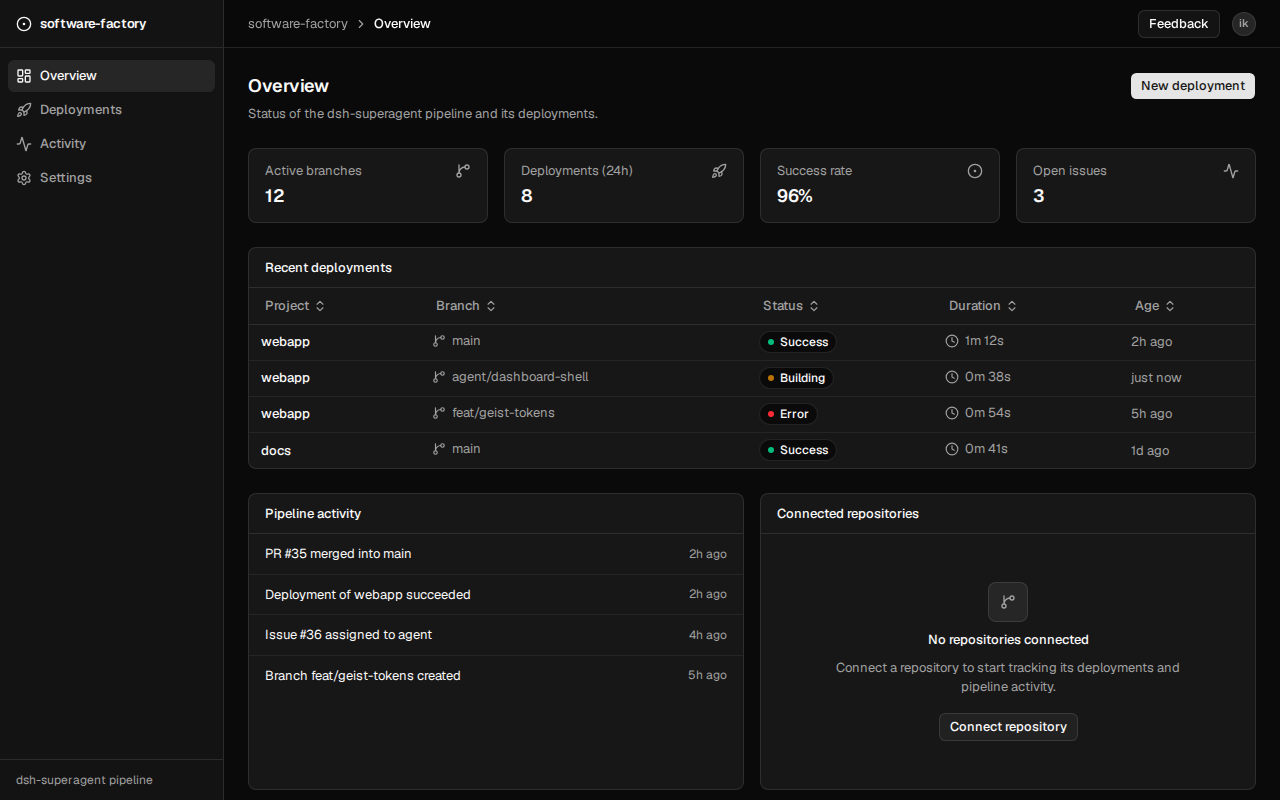
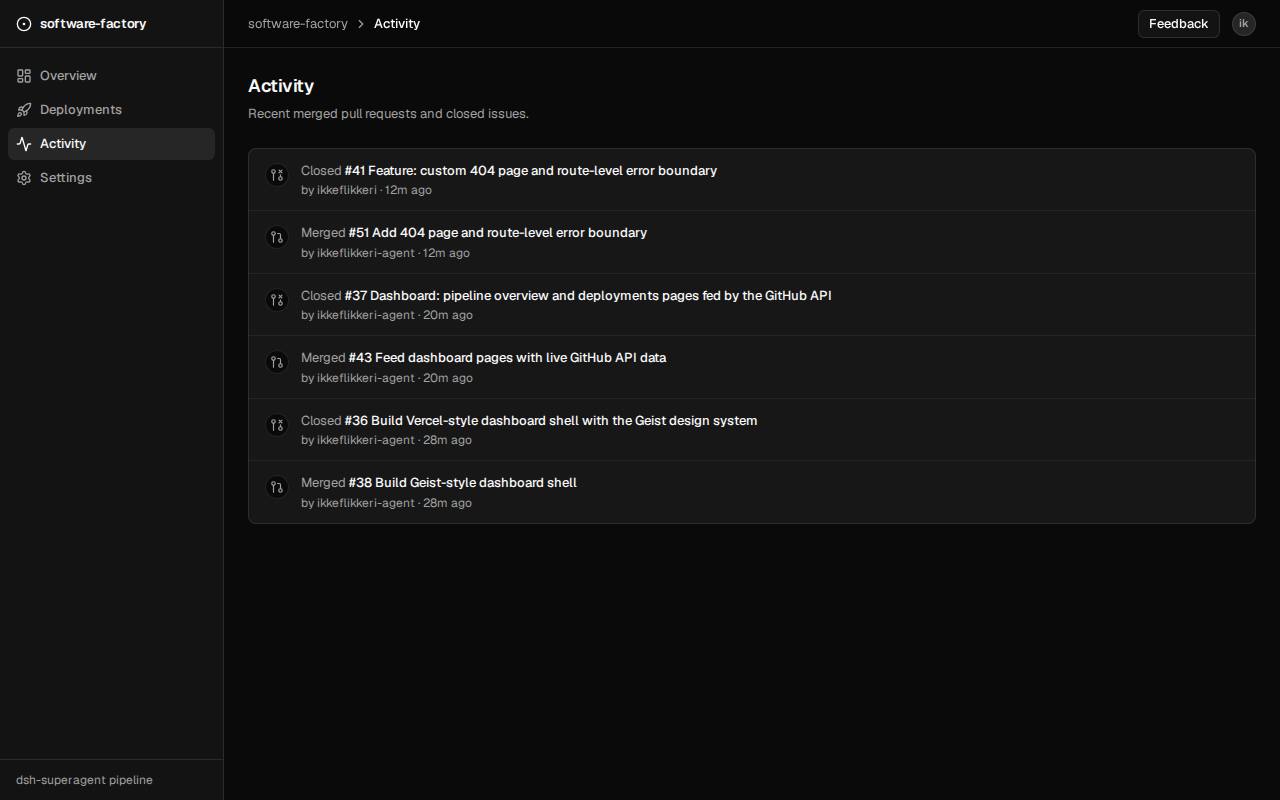
Fix Overview overflow at narrow widths after routing merge
Grid panels on the Overview page now allow shrinking (min-w-0 on the
panel sections and list rows) so truncated titles and commit refs no
longer push the page wider than the viewport at 375px. Refreshes the
Before/After screenshots against the merged routing shell.

diff --git a/webapp/src/pages/OverviewPage.tsx b/webapp/src/pages/OverviewPage.tsx
@@ -29,7 +29,7 @@ function StatCard({ label, value, icon: Icon }: { label: string; value: string; 
 
 function Panel({ title, children }: { title: string; children: React.ReactNode }) {
   return (
-    <section className="rounded-lg border border-border bg-card">
+    <section className="min-w-0 rounded-lg border border-border bg-card">
       <header className="flex h-10 items-center border-b border-border px-4 text-[13px] font-medium">
         {title}
       </header>
@@ -71,7 +71,7 @@ const RATE_LIMIT_HINT =
 function ActivityRow({ item, now }: { item: ActivityItem; now: number }) {
   const Icon = item.kind === "pr" ? GitPullRequest : GitPullRequestClosed
   return (
-    <li className="flex items-center justify-between gap-4 px-4 py-2.5 text-[13px]">
+    <li className="flex min-w-0 items-center justify-between gap-4 px-4 py-2.5 text-[13px]">
       <a
         href={item.url}
         target="_blank"
@@ -156,7 +156,7 @@ function DeploymentsPanel({ state, now }: { state: ReturnType<typeof useAsync<De
         ) : (
           <ul className="divide-y divide-border/60">
             {state.data.map((run) => (
-              <li key={run.id} className="flex items-center justify-between gap-4 px-4 py-2.5 text-[13px]">
+              <li key={run.id} className="flex min-w-0 items-center justify-between gap-4 px-4 py-2.5 text-[13px]">
                 <a
                   href={run.url}
                   target="_blank"
